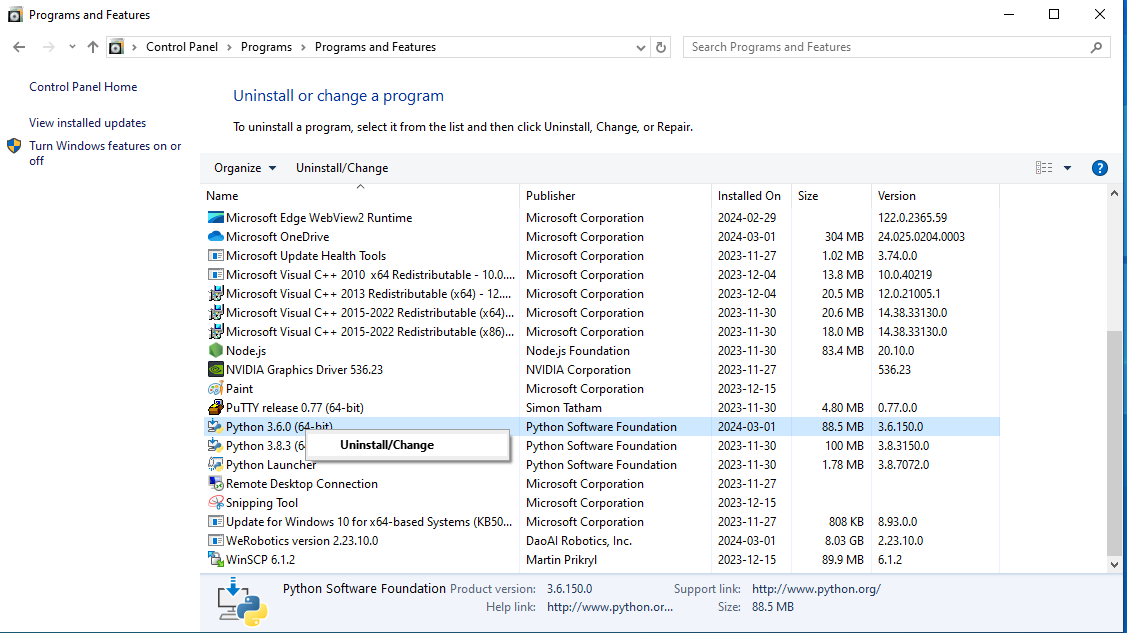
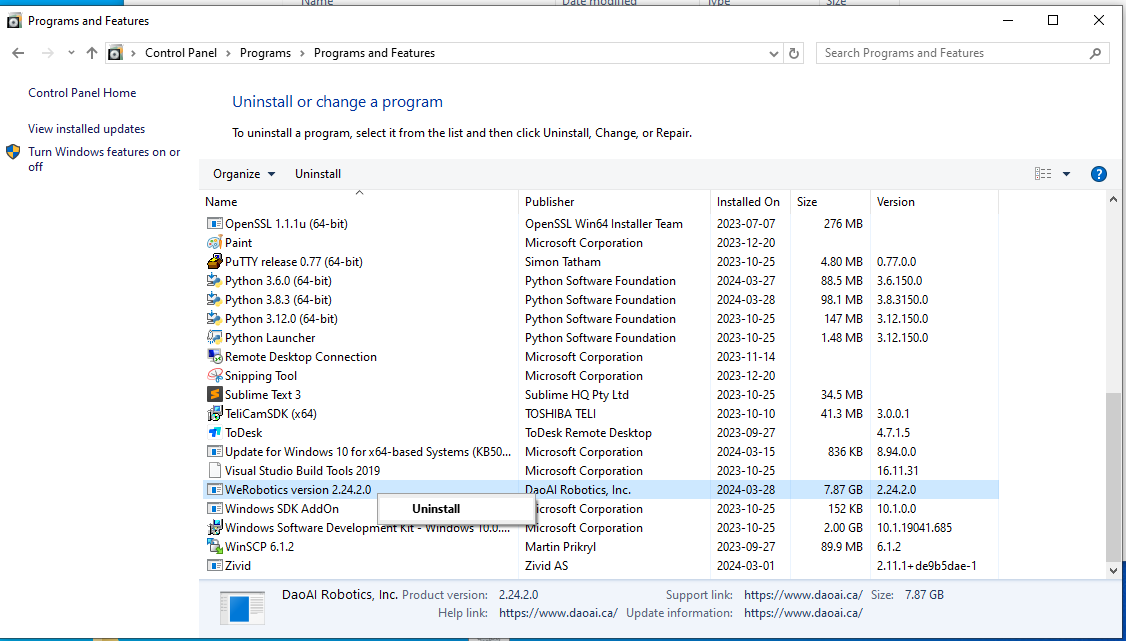
fix doc for cannot open software

Changed region(s): [[0.0, 0.0, 1.0, 1.0], [0.6217, 0.06, 0.9636, 0.1201], [0.0, 0.1801, 0.1554, 0.2701]]

diff --git a/docs/source/support/FAQ/index.rst b/docs/source/support/FAQ/index.rst
@@ -179,20 +179,56 @@
 
 
 安装软件后无法启动，是否安装过其他版本的Vision软件、或者Python、或者Chocolatey?
-~~~~~~~~~~~~~~~~~~~~~~~~~~~~~~~~~~~~~~~~~~~~~~~~~~
+~~~~~~~~~~~~~~~~~~~~~~~~~~~~~~~~~~~~~~~~~~~~~~~~~~~~~~~~~~~~~~~~~~~~~~~~~~
 
     - 是否在此工作机/电脑曾经安装过其他版本的Vision Studio或者Vision Cognition System? 如果你的答案是“是”或者“不确定”，请你打开“控制面板”，检查是否存在其他版本的软件，或者存在其他版本的Python程序。
     .. image:: Images/是否存在旧版本软件.png
         :align: center
         :scale: 100%
 
-    - 如果你的控制面板显示了上述的任意软件，请将他们删除。右键点击程序，选择“卸载”。
+    - 如果你的控制面板显示了过去任意版本的Vision  Cognition System或者WeRobotic软件，请将他们删除。右键点击程序，选择“卸载”。
     .. image:: Images/卸载它们.png
         :align: center 
         :scale: 100%
 
-    - 某些Python程序安装后不会在控制面板上显示。需要打开路径 C:\ ，删除文件夹 “PythonXX”（XX为版本号）。
-    .. image:: Images/python_hidden.png
+    - Python程序可同时兼容多版本，如下图显示：该电脑上安装了 Python 3.6.0 和 Python 3.8.3 。这样是可以的，除了另一种情况：电脑上安装了 Python 3.8.9 。Vision Cognition System安装包会自动安装 Python 3.8.3 ，当该电脑出现相同的大版本（3.8为大版本）时，可能会导致 Python 3.8.3 无法安装。需手动卸载其余的 Python 3.8 版本，或者重新安装 Python 3.8.3 版本。
+    - 不清楚该电脑是否存在Python 3.8 版本？没关系，继续往后阅读，后面会有方法辨识电脑上是否存在 Python 3.8 版本程序。
+    .. image:: Images/是否存在旧版本软件.png
+        :align: center 
+        :scale: 100%
+
+    - 使用 Python 3.8.3 安装包安装时，需注意电脑是否是 **64-bit操作系统**。如果该电脑为x64操作系统，需要运行 **x64**的Python安装包，通常为 **amd64**结尾的安装包。
+    .. image:: Images/64bit.png
+        :align: center 
+        :scale: 100%
+
+    - 如何查看自己的电脑是什么操作系统？打开菜单，点击 **“设置”**，进入 **“系统”**，点击 **“关于”**，显示 **64-bit 操作系统**。
+    .. image:: Images/about.png
+        :align: center 
+        :scale: 100%
+
+    - 运行 Python 3.8.3 安装包安装时，安装包会自动识别该电脑上是否存在 Python 3.8 版本软件。如果有，运行安装包后显示如下选项：选择 **“卸载”**，把原有的 Python 3.8 卸载掉。如果卸载失败，请选择 **“修复”**，使python程序修复完成后重新运行安装包，即可卸载。
+    .. image:: Images/python_exist.png
+        :align: center 
+        :scale: 100%
+
+    - 安装 Python 3.8.3 时，需要勾选 **“添加Python到PATH”**，然后选择 **“自定义安装”** 。
+    .. image:: Images/addtopath.png
+        :align: center 
+        :scale: 100%
+
+    - 选择 **“下一步”**。
+    .. image:: Images/next.png
+        :align: center 
+        :scale: 100%
+
+    - 勾选 **“为所有用户安装”**，你会看到安装路径为 **C:\Program Files\Python38**，在此路径上安装才能为所有用户安装。
+    .. image:: Images/allusers.png
+        :align: center 
+        :scale: 100%
+
+    - Python 3.8.3 安装完成。
+    .. image:: Images/done.png
         :align: center 
         :scale: 100%
 
@@ -201,4 +237,20 @@
         :align: center 
         :scale: 100%
 
-    - 成功卸载Python和Chocolatey后，重新安装软件即可正常开启。注意：Python程序并非只能安装一个版本。
+    - 成功安装好 Python 3.8.3 和卸载Chocolatey后，重新安装软件即可正常开启。
+
+
+安装软件后无法启动，显示 webio_server.exe - System Error/Syntax Error
+~~~~~~~~~~~~~~~~~~~~~~~~~~~~~~~~~~~~~~~~~~~~~~~~~~~~~~~~~~~~~~~~~~~
+
+    - 开启软件时无法运行，显示无法找到 **tingmxl2.dll** 或者其他dll。此问题多数由于Chocolatey没有正确安装，或者没有安装上Chocolatey的所需包裹。需要卸载Chocolatey或者重新运行安装包，重装软件。
+    .. image:: Images/tinyxml2.dll.png
+        :align: center 
+        :scale: 100%
+
+    - Chocolatey程序则无法在控制面版中卸载。打开路径 C:\ProgramData，删除文件夹 “chocolatey”。
+    .. image:: Images/uninstallchoco.png
+        :align: center 
+        :scale: 100%
+
+    - 成功安装好 Chocolatey后，重新安装软件即可正常开启。
